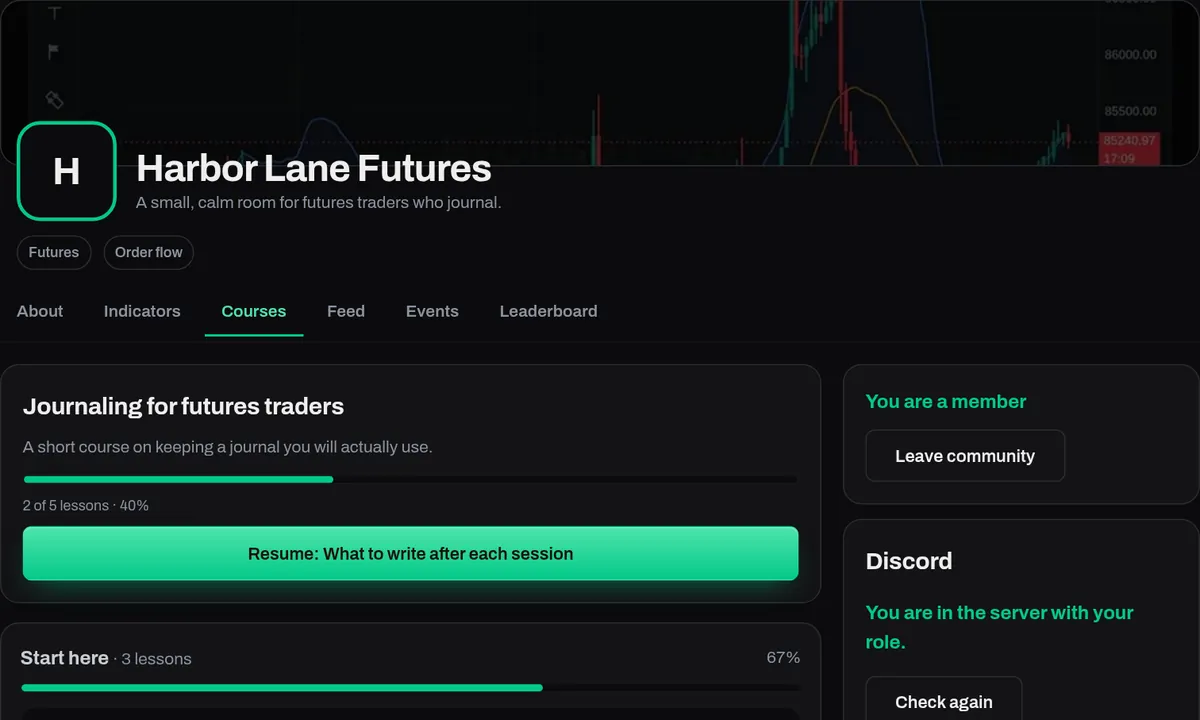
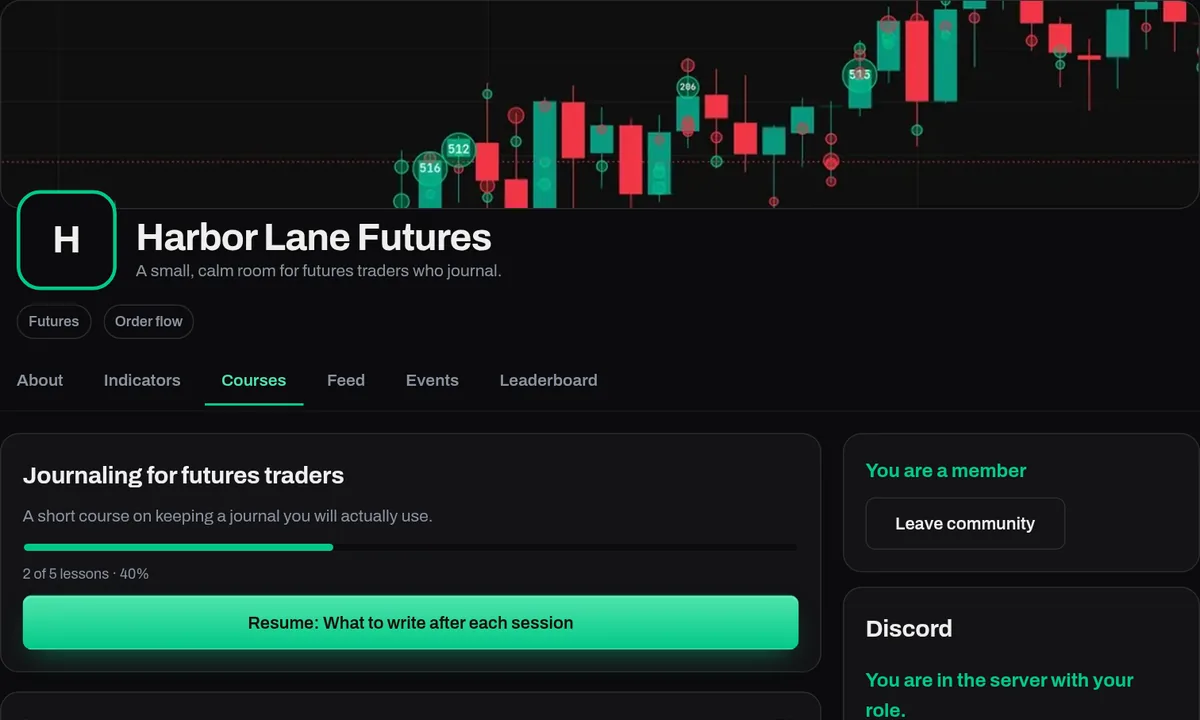
creators landing polish: real covers and indicator images, balanced headings
Roadmap: Creator Hub landing page

diff --git a/features/creators.html b/features/creators.html
@@ -25,8 +25,8 @@
 <link rel="canonical" href="https://tradezoro.com/features/creators">
 <link rel="preload" href="/assets/fonts/archivo-latin-variable.woff2" as="font" type="font/woff2" crossorigin>
 <link rel="preload" href="/assets/fonts/jetbrains-mono-latin-variable.woff2" as="font" type="font/woff2" crossorigin>
-<link rel="preload" as="image" href="/assets/images/creators/hero-1440.webp" media="(min-width:701px)" fetchpriority="high">
-<link rel="preload" as="image" href="/assets/images/creators/hero-390.webp" media="(max-width:700px)" fetchpriority="high">
+<link rel="preload" as="image" href="/assets/images/creators/hero-1440.webp?v=751" media="(min-width:701px)" fetchpriority="high">
+<link rel="preload" as="image" href="/assets/images/creators/hero-390.webp?v=751" media="(max-width:700px)" fetchpriority="high">
 <link rel="stylesheet" href="/assets/style.css?v=751">
 <link rel="stylesheet" href="/assets/nav-features.css?v=751">
 <script src="/assets/sanitize.js?v=751"></script>
@@ -119,7 +119,7 @@
 <p class="cl-fine">Free to start. 0% TradeZoro fee for Founding Creators during launch.</p>
 <figure class="cl-shot cl-hero-shot">
 <div class="cl-bar"><span class="cl-dots" aria-hidden="true"><i></i><i></i><i></i></span><b>tradezoro.com/c/harbor-lane</b><span class="cl-tag">Example community</span></div>
-<div class="fp-pad cl-pad"><picture><source media="(max-width:700px)" srcset="/assets/images/creators/hero-390.webp" width="780" height="1100"><img src="/assets/images/creators/hero-1440.webp" width="1440" height="860" fetchpriority="high" decoding="async" alt="An example community page on TradeZoro: cover image, tabs for About, Indicators, Courses, Feed, Events and Leaderboard, and a Plans panel with a free plan and a paid plan."></picture></div>
+<div class="fp-pad cl-pad"><picture><source media="(max-width:700px)" srcset="/assets/images/creators/hero-390.webp?v=751" width="780" height="1100"><img src="/assets/images/creators/hero-1440.webp?v=751" width="1440" height="860" fetchpriority="high" decoding="async" alt="An example community page on TradeZoro: cover image, tabs for About, Indicators, Courses, Feed, Events and Leaderboard, and a Plans panel with a free plan and a paid plan."></picture></div>
 <figcaption>An example community with made-up content. Names, posts and plans are for illustration.</figcaption>
 </figure>
 </header>
@@ -133,28 +133,28 @@
 <div class="cl-copy"><span class="cl-n">Indicators</span><h3>Publish an indicator that runs on ZoroCharts</h3>
 <p>Upload a Pine script, check it compiles, and choose who gets it: a plan, a free claim, an invite code or one email at a time. Members add it to their chart in one click.</p>
 <ul class="cl-list"><li>Source stays hidden. Each member gets their own tagged copy.</li><li>Access is checked every time a chart loads it, so ending a plan ends access.</li><li>Versions, settings notes, screenshots and 7-day usage.</li></ul></div>
-<figure class="cl-shot"><div class="cl-bar"><span class="cl-dots" aria-hidden="true"><i></i><i></i><i></i></span><b>Indicators tab</b><span class="cl-tag">Example</span></div><div class="fp-pad cl-pad"><picture><source media="(max-width:700px)" srcset="/assets/images/creators/indicators-390.webp" width="780" height="1000"><img src="/assets/images/creators/indicators-1440.webp" width="1200" height="720" loading="lazy" decoding="async" alt="The Indicators tab of an example community: two indicator cards with version chips, a Protected code chip, the plans that include them and an Open on ZoroCharts button."></picture></div></figure>
+<figure class="cl-shot"><div class="cl-bar"><span class="cl-dots" aria-hidden="true"><i></i><i></i><i></i></span><b>Indicators tab</b><span class="cl-tag">Example</span></div><div class="fp-pad cl-pad"><picture><source media="(max-width:700px)" srcset="/assets/images/creators/indicators-390.webp?v=751" width="780" height="1000"><img src="/assets/images/creators/indicators-1440.webp?v=751" width="1200" height="720" loading="lazy" decoding="async" alt="The Indicators tab of an example community: two indicator cards with version chips, a Protected code chip, the plans that include them and an Open on ZoroCharts button."></picture></div></figure>
 </article>
 
 <article class="cl-row flip ft-reveal" id="cl-courses">
 <div class="cl-copy"><span class="cl-n">Courses</span><h3>Teach with courses people can finish</h3>
 <p>Build modules and lessons from video, text, PDF and links. Add a quiz, set a drip date, and members see their own progress and where to resume.</p>
 <ul class="cl-list"><li>Video from YouTube, Vimeo or Loom links.</li><li>PDFs open in a viewer with the member's email as a moving watermark.</li><li>Lock a lesson to a plan, a date or the lesson before it.</li></ul></div>
-<figure class="cl-shot"><div class="cl-bar"><span class="cl-dots" aria-hidden="true"><i></i><i></i><i></i></span><b>Courses tab</b><span class="cl-tag">Example</span></div><div class="fp-pad cl-pad"><picture><source media="(max-width:700px)" srcset="/assets/images/creators/courses-390.webp" width="780" height="1000"><img src="/assets/images/creators/courses-1440.webp" width="1200" height="720" loading="lazy" decoding="async" alt="The Courses tab of an example community: a course with a progress bar, two modules, lessons with video, PDF and text icons, and a locked lesson with its release date."></picture></div></figure>
+<figure class="cl-shot"><div class="cl-bar"><span class="cl-dots" aria-hidden="true"><i></i><i></i><i></i></span><b>Courses tab</b><span class="cl-tag">Example</span></div><div class="fp-pad cl-pad"><picture><source media="(max-width:700px)" srcset="/assets/images/creators/courses-390.webp?v=751" width="780" height="1000"><img src="/assets/images/creators/courses-1440.webp?v=751" width="1200" height="720" loading="lazy" decoding="async" alt="The Courses tab of an example community: a course with a progress bar, two modules, lessons with video, PDF and text icons, and a locked lesson with its release date."></picture></div></figure>
 </article>
 
 <article class="cl-row ft-reveal" id="cl-community">
 <div class="cl-copy"><span class="cl-n">Community</span><h3>Keep the conversation in your room</h3>
 <p>A members-only feed for posts and comments, an events calendar with RSVPs, and a leaderboard that shows who is most active. You can pin posts and remove anything that breaks your rules.</p>
 <ul class="cl-list"><li>Feed with pinned posts and comments.</li><li>Events with a time, a link and a going count.</li><li>Leaderboard counts activity only. It is not a trading ranking.</li></ul></div>
-<figure class="cl-shot"><div class="cl-bar"><span class="cl-dots" aria-hidden="true"><i></i><i></i><i></i></span><b>Feed tab</b><span class="cl-tag">Example</span></div><div class="fp-pad cl-pad"><picture><source media="(max-width:700px)" srcset="/assets/images/creators/feed-390.webp" width="780" height="1000"><img src="/assets/images/creators/feed-1440.webp" width="1200" height="720" loading="lazy" decoding="async" alt="The Feed tab of an example community: a pinned post from the creator, two member posts and comments."></picture></div></figure>
+<figure class="cl-shot"><div class="cl-bar"><span class="cl-dots" aria-hidden="true"><i></i><i></i><i></i></span><b>Feed tab</b><span class="cl-tag">Example</span></div><div class="fp-pad cl-pad"><picture><source media="(max-width:700px)" srcset="/assets/images/creators/feed-390.webp?v=751" width="780" height="1000"><img src="/assets/images/creators/feed-1440.webp?v=751" width="1200" height="720" loading="lazy" decoding="async" alt="The Feed tab of an example community: a pinned post from the creator, two member posts and comments."></picture></div></figure>
 </article>
 
 <article class="cl-row flip ft-reveal" id="cl-discord">
 <div class="cl-copy"><span class="cl-n">Discord</span><h3>Discord roles that follow the plan</h3>
 <p>Connect your Discord server once and pick a role for each plan. Members link their Discord, get the role, and lose it when their membership ends. No manual role handing.</p>
 <ul class="cl-list"><li>TradeZoro sees only the member's Discord name and ID.</li><li>Members can unlink any time.</li><li>You keep running your server your way.</li></ul></div>
-<figure class="cl-shot cl-small"><div class="cl-bar"><span class="cl-dots" aria-hidden="true"><i></i><i></i><i></i></span><b>Member view</b><span class="cl-tag">Example</span></div><div class="fp-pad cl-pad"><picture><img src="/assets/images/creators/discord-1440.webp" width="450" height="377" loading="lazy" decoding="async" alt="The Discord card on an example community page: the member is in the server with their role, with buttons to check again or unlink."></picture></div></figure>
+<figure class="cl-shot cl-small"><div class="cl-bar"><span class="cl-dots" aria-hidden="true"><i></i><i></i><i></i></span><b>Member view</b><span class="cl-tag">Example</span></div><div class="fp-pad cl-pad"><picture><img src="/assets/images/creators/discord-1440.webp?v=751" width="450" height="377" loading="lazy" decoding="async" alt="The Discord card on an example community page: the member is in the server with their role, with buttons to check again or unlink."></picture></div></figure>
 </article>
 
 </div>

diff --git a/tools/creator/landing-shots.js b/tools/creator/landing-shots.js
@@ -1,5 +1,6 @@
 // Screenshots of a DEMO community for the /creators landing page (never real data).
 // Stubs Firebase in the browser with an in-memory "Harbor Lane (example)" community, serves the repo on 127.0.0.1 only.
+// Cover: put a cover.jpg (crop of assets/images/orderflow/bigtrades.webp, NQ 1m, 1150x190 at y=60, resized to 1600x264) in <outdir>/_demo/.
 // Run (Chrome under the shared lock): node tools/creator/landing-shots.js <outdir> [sizes]
 // Needs playwright-core and a Chromium (tools/tests/lib.js finds one).
 const http = require('http'), fs = require('fs'), path = require('path');
@@ -31,7 +32,7 @@ function stubSrc(member) {
     put(C + '/plans/pro', { name: 'Member', order: 1, status: 'live', popular: true, price: { interval: 'month', amount: 29, currency: 'USD' }, desc: 'Everything in the room.', bullets: ['Courses and events', 'Indicators on ZoroCharts', 'Discord role'] });
     if (MEMBER) put(C + '/members/u1', { status: 'active', planId: 'pro', role: 'member', joinedAt: ts(9 * D), source: 'free' });
     put(C + '/indicators/i1', { name: 'Session Levels Pro', version: 3, status: 'live', protected: true, tags: ['levels', 'session'], desc: 'Marks the session highs and lows and the prior-day levels on your chart.', planIds: ['pro'], solo: { mode: 'off' }, shots: ['/assets/images/charts/hero.webp'], settingsNotes: 'Start with the defaults.' });
-    put(C + '/indicators/i2', { name: 'Journal Marks', version: 1, status: 'live', protected: true, tags: ['ict'], desc: 'Drop a labelled mark on any bar and review them later.', planIds: ['pro'], solo: { mode: 'free' }, shots: [] });
+    put(C + '/indicators/i2', { name: 'Delta Divergence', version: 1, status: 'live', protected: true, tags: ['order-flow'], desc: 'Draws divergence lines between price and cumulative delta.', planIds: ['pro'], solo: { mode: 'free' }, shots: ['/assets/images/orderflow/cvd.webp'] });
     put(C + '/courses/c1', { title: 'Journaling for futures traders', desc: 'A short course on keeping a journal you will actually use.', status: 'published', order: 0, solo: { mode: 'off' }, access: { mode: 'all', planIds: [] }, sequential: false });
     put(C + '/courses/c1/modules/m1', { title: 'Start here', order: 0, status: 'published', planIds: [], drip: { mode: 'none' } });
     put(C + '/courses/c1/modules/m2', { title: 'Weekly review', order: 1, status: 'published', planIds: [], drip: { mode: 'date', at: ts(-6 * D) } });
@@ -99,7 +100,7 @@ function stubSrc(member) {
       await p.waitForSelector('.cx-tabs', { timeout: 15000 });
       if (tab && !['indicators', 'courses'].includes(tab)) { await p.click('.cx-tabs button[data-t=' + tab + ']'); }
       await p.waitForTimeout(1400);
-      await p.addStyleTag({ content: '#appnav-dock,.appnav-dock{display:none!important}.cx-cover{height:140px!important}.cx-chip:last-of-type{display:none}.cx-row .cx-chip:nth-last-child(1){display:none}' });
+      await p.addStyleTag({ content: '#appnav-dock,.appnav-dock{display:none!important}.cx-cover{height:176px!important}.cx-head .cx-t{padding-top:44px}.cx-chip:last-of-type{display:none}.cx-row .cx-chip:nth-last-child(1){display:none}' });
       if (opts && opts.eval) { await p.evaluate(opts.eval); await p.waitForTimeout(300); }
       const ov = await p.evaluate(() => document.documentElement.scrollWidth > innerWidth + 1);
       const file = OUT + '/' + name + '-' + w + '-' + theme + '.png';

diff --git a/assets/creators-page.css b/assets/creators-page.css
@@ -7,7 +7,8 @@
 .cl-hero{ position:relative; text-align:center; padding:72px 16px 48px; border-bottom:1px solid var(--line-soft);
   background:radial-gradient(ellipse 900px 380px at 50% -120px, rgba(3,201,136,.10), transparent 65%), var(--bg-0); }
 .cl-hero h1{ font-size:clamp(28px,5.2vw,52px); line-height:1.1; letter-spacing:-.02em; color:var(--ink-0); max-width:820px; margin:0 auto 16px; }
-.cl-hero h1 em{ font-style:normal; color:var(--gold); }
+.cl-hero h1{ text-wrap:balance; }
+.cl-hero h1 em{ font-style:normal; color:var(--gold); white-space:nowrap; }
 .cl-sub{ max-width:620px; margin:0 auto 24px; font-size:17px; line-height:24px; color:var(--ink-2); }
 .cl-cta{ display:flex; gap:12px; justify-content:center; flex-wrap:wrap; }
 .cl-cta .btn, .ft-cta .btn{ min-height:48px; padding:0 24px; font-size:15px; border-radius:12px; }
@@ -27,7 +28,8 @@
 /* sections */
 .cl-sec{ padding-top:72px; }
 .cl-sec .ft-section-head{ margin-bottom:40px; }
-.cl-sec .ft-section-head h2{ font-size:clamp(22px,3.4vw,32px); line-height:1.2; }
+.cl-sec .ft-section-head h2{ font-size:clamp(22px,3.4vw,32px); line-height:1.2; text-wrap:balance; }
+.cl-sec .ft-section-head p, .ft-cta h2{ text-wrap:balance; }
 .cl-sec .ft-section-head p{ font-size:15px; line-height:22px; }
 .cl-rows{ display:flex; flex-direction:column; gap:48px; }
 .cl-row{ display:grid; grid-template-columns:1fr; gap:24px; align-items:center; }
